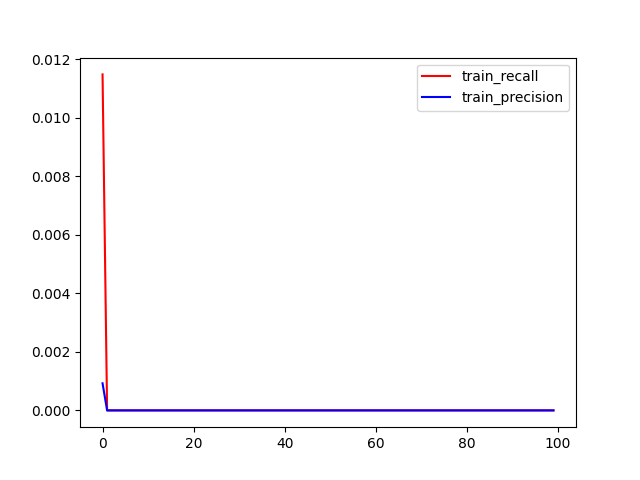
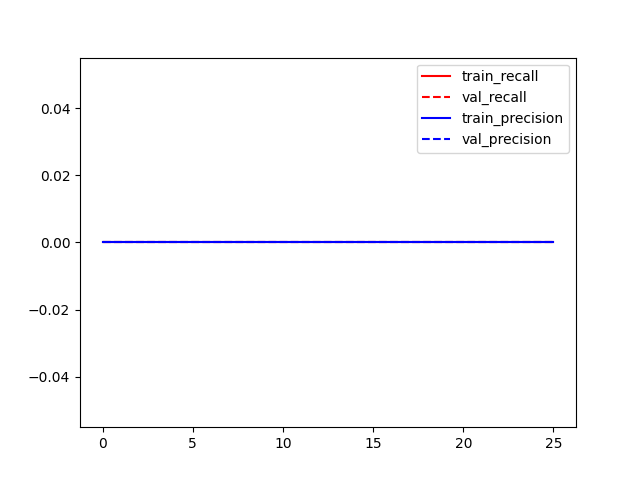
basic train val split and another training cycle

diff --git a/model_iter1/train.py b/model_iter1/train.py
@@ -9,6 +9,8 @@ from tensorflow.keras.preprocessing.image import load_img
 from tensorflow.keras.preprocessing.image import img_to_array
 from tensorflow.keras.preprocessing.image import array_to_img
 from tensorflow.keras.preprocessing.image import save_img
+from tensorflow.keras.callbacks import ModelCheckpoint, EarlyStopping, ReduceLROnPlateau, CSVLogger
+
 import os
 import shutil as sh
 import errno
@@ -18,13 +20,15 @@ import matplotlib.pyplot as plt
 # Load Training/Testing Data
 #native_chips, _05masks = load_data("/projects/cmda_capstone_2021_ti/data/training_sets/trainingset_descending_500.csv")
 
-parent_data_dir = '/projects/cmda_capstone_2021_ti/data/'
+parent_data_dir = '/projects/cmda_capstone_2021_ti/data/training_sets'
 img_size=(400,400)
 batch_size = 9
 
 #Create data generators
-train_input_image_paths,train_target_image_paths = get_data_paths(parent_data_dir,'training_sets')
+train_input_image_paths,train_target_image_paths = get_data_paths(parent_data_dir,'Train')
+val_input_image_paths,val_target_image_paths = get_data_paths(parent_data_dir,'Val')
 train_gen = DataGather(batch_size, img_size, train_input_image_paths, train_target_image_paths,shuffle=True)
+val_gen = DataGather(batch_size, img_size, val_input_image_paths, val_target_image_paths,shuffle=True)
 print(len(train_gen))
 # data_gen_args = dict(rotation_range=0,
 #                     width_shift_range=0,
@@ -37,9 +41,14 @@ print(len(train_gen))
 # Construct model
 model = unet()
 
+mc = ModelCheckpoint(mode='min', filepath='model_iter1/model_accuracy/top-weights.h5', monitor='val_loss',save_best_only='True', save_weights_only='False', verbose=1)
+es = EarlyStopping(mode='min', monitor='val_loss', patience=25, verbose=0)
+rl = ReduceLROnPlateau(monitor='val_loss',factor=0.1,patience=5,verbose=1,mode="min",min_lr=0.000000001)
+cv = CSVLogger("model_iter1/model_accuracy/log.csv" , append=True , separator=',')
+callbacks = [mc, rl, cv, es]
 
 # Fit Model
-history = model.fit(train_gen, steps_per_epoch=len(train_gen)/batch_size, epochs=100)
+history = model.fit(train_gen, epochs=40, validation_data=val_gen, callbacks=callbacks) # steps_per_epoch=len(train_gen)/batch_size
 
 try:
     os.mkdir("model_iter1/model_accuracy")
@@ -49,24 +58,24 @@ except OSError as e:
     os.mkdir("model_iter1/model_accuracy")
 
 train_loss = history.history['loss']
-# val_loss = history.history['val_loss']
+val_loss = history.history['val_loss']
 fig,ax = plt.subplots(1)
 ax.plot(train_loss,label='train_loss')
-# ax.plot(val_loss,label='val_loss')
+ax.plot(val_loss,label='val_loss')
 plt.legend()
 plt.savefig('model_iter1/model_accuracy/Loss_Curves.png')
 plt.close()
     
 train_recall = history.history['recall']
 train_precision = history.history['precision']
-#val_recall = history.history['val_recall']
-#val_precision = history.history['val_precision']
+val_recall = history.history['val_recall']
+val_precision = history.history['val_precision']
     
 fig,ax = plt.subplots(1)
 ax.plot(train_recall,label='train_recall',color='red',linestyle='-')
-# ax.plot(val_recall,label='val_recall',color='red',linestyle='--')
+ax.plot(val_recall,label='val_recall',color='red',linestyle='--')
 ax.plot(train_precision,label='train_precision',color='blue',linestyle='-')
-# ax.plot(val_precision,label='val_precision',color='blue',linestyle='--')
+ax.plot(val_precision,label='val_precision',color='blue',linestyle='--')
 plt.legend()
 plt.savefig('model_iter1/model_accuracy/Precision_Recall.png')
 plt.close()
@@ -77,7 +86,7 @@ plt.close()
 # plt.xlabel("Epoch")
 # plt.savefig("model_iter1/model_accuracy/Accuracy_Plot.png")
 
-pred = model.predict(train_gen[150][0])
+pred = model.predict(train_gen[0][0])
 sample_image = train_gen[150][0][0]
 sample_gt = train_gen[150][1][0][:,:,0]
 pred = pred[0,:,:,0]

diff --git a/trainingset_extractor.py b/trainingset_extractor.py
@@ -1,3 +1,4 @@
+from posixpath import split
 import sys
 import pandas as pd
 import numpy as np 
@@ -8,6 +9,7 @@ import shutil as sh
 
 # Global Variables
 SET_SIZE = int(sys.argv[1])    # Number of rows to extract into subset
+VAL_SET_SIZE = 201
 
 READ_PATH = "/projects/cmda_capstone_2021_ti/data/data_summary_final_summary.csv"   # Path of csv file to read from
 WRITE_PATH = "/projects/cmda_capstone_2021_ti/data/training_sets/"    # Path of directory where output training csv file is to be saved
@@ -36,13 +38,27 @@ training_set.to_csv(WRITE_PATH + "trainingset_descending_" + str(SET_SIZE) + ".c
 print(WRITE_PATH + "trainingset_descending_" + str(SET_SIZE) + ".csv" + "created with " + str(SET_SIZE) + "records!")
 
 #------------------------------------------------
+# Creating Train and validation sub-folders
+TRAIN_WRITE_PATH = os.path.join(WRITE_PATH, "Train/")
+VAL_WRITE_PATH = os.path.join(WRITE_PATH, "Val/")
+train_dir = os.mkdir(TRAIN_WRITE_PATH)
+val_dir = os.mkdir(VAL_WRITE_PATH)
+
 # Creating directory for training images
-nchip_path = os.path.join(WRITE_PATH, NCHIP_SUBPATH)
-rgbchip_path = os.path.join(WRITE_PATH, RGBCHIP_SUBPATH)
-five_path = os.path.join(WRITE_PATH, FIVE_MASK_SUBPATH)
-nchip_dir = os.mkdir(nchip_path)
-rgbchip_dir = os.mkdir(rgbchip_path)
-fivemask_dir = os.mkdir(five_path)
+nchip_path_t = os.path.join(TRAIN_WRITE_PATH, NCHIP_SUBPATH)
+rgbchip_path_t = os.path.join(TRAIN_WRITE_PATH, RGBCHIP_SUBPATH)
+five_path_t = os.path.join(TRAIN_WRITE_PATH, FIVE_MASK_SUBPATH)
+nchip_dir_t = os.mkdir(nchip_path_t)
+rgbchip_dir_t = os.mkdir(rgbchip_path_t)
+fivemask_dir_t = os.mkdir(five_path_t)
+
+nchip_path_v = os.path.join(VAL_WRITE_PATH, NCHIP_SUBPATH)
+rgbchip_path_v = os.path.join(VAL_WRITE_PATH, RGBCHIP_SUBPATH)
+five_path_v = os.path.join(VAL_WRITE_PATH, FIVE_MASK_SUBPATH)
+nchip_dir_v = os.mkdir(nchip_path_v)
+rgbchip_dir_v = os.mkdir(rgbchip_path_v)
+fivemask_dir_v = os.mkdir(five_path_v)
+
 print("All subfolders created succesfully")
 
 #------------------------------------------------
@@ -50,11 +66,18 @@ print("All subfolders created succesfully")
 
 zipped = zip(training_set["Colorized_Chip_Name"], training_set["Native_Chip_Name"], training_set["05min_Mask_Name"])
 record_loss = 0 # Records how many files are missing
+split_ctr = 0
 for color, native, mask05 in zipped:
     if (color != "None") and (native != "None") and (mask05 != "None"):
-        sh.copy(NCHIP_READ_PATH + native, nchip_path)
-        sh.copy(RGBCHIP_READ_PATH + color, rgbchip_path)
-        sh.copy(FIVE_MASK_READ_PATH + mask05, five_path)
+        if split_ctr >= SET_SIZE-VAL_SET_SIZE:
+            sh.copy(NCHIP_READ_PATH + native, nchip_path_v)
+            sh.copy(RGBCHIP_READ_PATH + color, rgbchip_path_v)
+            sh.copy(FIVE_MASK_READ_PATH + mask05, five_path_v)
+        else:
+            sh.copy(NCHIP_READ_PATH + native, nchip_path_t)
+            sh.copy(RGBCHIP_READ_PATH + color, rgbchip_path_t)
+            sh.copy(FIVE_MASK_READ_PATH + mask05, five_path_t)
+        split_ctr += 1
     else:
         record_loss += 1
 
